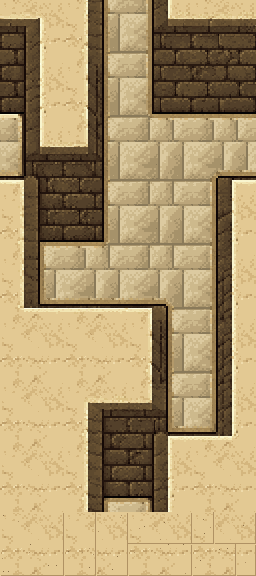
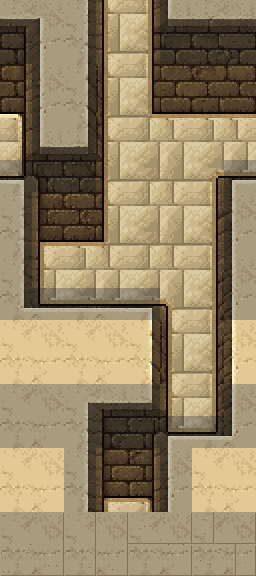
Temple: walls squared off where the cliff sets have no tile; the wall top redrawn
tools/walls.js lists corners whose best cliff tile gets one of their own four squares wrong (a wall stepping down one
row at a time, a wall one square thick north-south): the 'broken' wall features the user found in the labyrinth. A
test keeps every tiled place at none. tools/squarewalls.js squares them off (single squares or pairs flipped between
wall and floor, never cutting or making a way through). Applied to the labyrinth and the sewers; the wall top redrawn
by hand (a long walk, the guardhouse a room beside it) with its wall tops darkened. Adds the user's palace references.

Claude-Session: https://claude.ai/code/session_0141D3J1nxiiYur4nPnE9YEF

diff --git a/tools/squarewalls.js b/tools/squarewalls.js
@@ -1,0 +1,85 @@
+// Squares off wall shapes a place's cliff set has no tile for (a one-square diagonal step, a wall one square thick
+// north-south), by flipping single squares between plain wall (#) and plain floor, greedily, keeping only flips that
+// cut the count of corners no tile fits, never touching a legend square, and never joining or cutting off floor
+// (a flip must keep the floor squares round it connected through its 8 neighbours). Prints the new map rows.
+//   node tools/squarewalls.js <place>
+const path = require('path');
+const repo = path.resolve(__dirname, '..');
+process.chdir(repo + '/tests');
+require(repo + '/tests/load.js');
+const G = globalThis.BBB; G.UI = G.UI || {}; require(repo + '/src/ui/game/tilemap.js');
+const Tm = G.UI.Tilemap, id = process.argv[2], pl = G.Content.world.places[id];
+const gl = (pl.look && pl.look.ground) || '.';
+const rows = pl.map.map((r) => [...r]), H = rows.length, W = rows[0].length;
+const ts = Tm.tileset(pl.look.tileset);
+const walk = (ch) => ch !== '#' && ch !== ' ' && !(G.Explore.groundOf(ch) && (G.Explore.groundOf(ch).wall || G.Explore.groundOf(ch).walk === false));
+const sc = { w: W, h: H, misfits: true, cell: (x, y) => {
+  if (x < 0 || y < 0 || x >= W || y >= H) return { kind: 'rock', ch: ' ' };
+  const ch = rows[y][x];
+  if (ch === '#') return { kind: 'wall', ch };
+  if (ch === ' ') return { kind: 'rock', ch };
+  if (ch === '+') return { kind: 'door', ch, ground: G.Explore.groundOf(gl) };
+  const def = pl.legend && pl.legend[ch];
+  if (def) return { kind: def.kind, ch, def, ground: G.Explore.groundOf(def.on || gl) };
+  const gr = G.Explore.groundOf(ch);
+  if (gr && gr.wall) return { kind: 'wall', ch, ground: gr };
+  return { kind: gr && gr.walk === false ? 'water' : 'floor', ch, ground: gr || G.Explore.groundOf(gl) };
+} };
+const bad = () => (Tm.planTiles(sc, ts, 0, 0, W - 1, H - 1).misfit || []).filter((m) => m.full - m.score >= 40);
+// The floor round (x, y), within its 8 neighbours, is one piece (so filling or opening it adds or cuts no way through).
+const locallyOne = (x, y) => {
+  const ring = [[-1, -1], [0, -1], [1, -1], [1, 0], [1, 1], [0, 1], [-1, 1], [-1, 0]].map(([dx, dy]) => [x + dx, y + dy]);
+  const open = ring.filter(([a, b]) => rows[b] && rows[b][a] !== undefined && walk(rows[b][a]));
+  if (!open.length) return true;
+  const key = ([a, b]) => a + ',' + b, set = new Set(open.map(key)), seen = new Set([key(open[0])]), q = [open[0]];
+  while (q.length) { const [a, b] = q.pop(); for (const [dx, dy] of [[1, 0], [-1, 0], [0, 1], [0, -1]]) { const k = (a + dx) + ',' + (b + dy); if (set.has(k) && !seen.has(k)) { seen.add(k); q.push([a + dx, b + dy]); } } }
+  return seen.size === open.length;
+};
+// The walkable areas, counted (4-way): a flip must leave the count as it was, so it neither cuts a way nor makes one.
+const areas = () => {
+  const seen = new Set(); let n = 0;
+  for (let y = 0; y < H; y++) for (let x = 0; x < W; x++) {
+    if (!walk(rows[y][x]) || seen.has(x + ',' + y)) continue;
+    n++; seen.add(x + ',' + y); const q = [[x, y]];
+    while (q.length) { const [a, b] = q.pop(); for (const [dx, dy] of [[1, 0], [-1, 0], [0, 1], [0, -1]]) { const k = (a + dx) + ',' + (b + dy); if (rows[b + dy] && rows[b + dy][a + dx] !== undefined && walk(rows[b + dy][a + dx]) && !seen.has(k)) { seen.add(k); q.push([a + dx, b + dy]); } } }
+  }
+  return n;
+};
+const nAreas = areas();
+let cur = bad();
+const start = cur.length;
+for (let round = 0; round < 200 && cur.length; round++) {
+  let bestFlip = null, bestN = cur.length;
+  const cand = new Set();
+  for (const m of cur) for (const [dx, dy] of [[-1, -1], [0, -1], [-1, 0], [0, 0]]) cand.add((m.x + dx) + ',' + (m.y + dy));
+  // Single squares first; a pair (side by side or one above the other) only when no single flip helps: a wall that
+  // steps down one row at a time needs its steps two rows tall.
+  for (const pairs of [[[0, 0]], [[0, 0], [1, 0]], [[0, 0], [0, 1]]]) {
+    for (const k of cand) {
+      const [x, y] = k.split(',').map(Number);
+      const sq = pairs.map(([dx, dy]) => [x + dx, y + dy]);
+      if (sq.some(([a, b]) => a < 1 || b < 1 || a >= W - 1 || b >= H - 1)) continue;
+      const chs = sq.map(([a, b]) => rows[b][a]);
+      if (new Set(chs).size > 1) continue;
+      const ch = chs[0], to = ch === '#' ? gl : ch === gl ? '#' : null;
+      if (!to) continue;
+      const saved = chs.slice();
+      let ok = true;
+      for (const [a, b] of sq) {
+        if (!locallyOne(a, b)) { ok = false; break; }
+        rows[b][a] = to;
+      }
+      // New floor must join floor on a side, or it is an island (a wall square in the water).
+      if (ok && to !== '#') ok = sq.every(([a, b]) => [[1, 0], [-1, 0], [0, 1], [0, -1]].some(([dx, dy]) => walk(rows[b + dy][a + dx])));
+      const n = ok && areas() === nAreas ? bad().length : Infinity;
+      sq.forEach(([a, b], i) => { rows[b][a] = saved[i]; });
+      if (n < bestN) { bestN = n; bestFlip = sq.map(([a, b]) => [a, b, to]); }
+    }
+    if (bestFlip) break;
+  }
+  if (!bestFlip) break;
+  for (const [a, b, to] of bestFlip) rows[b][a] = to;
+  cur = bad();
+}
+console.error(`${id}: ${start} -> ${cur.length} corners no tile fits`);
+console.log(rows.map((r) => `    - "${r.join('')}"`).join('\n'));

diff --git a/tools/walls.js b/tools/walls.js
@@ -1,0 +1,25 @@
+// Lists the wall corners in tiled places where the best tile of their cliff set gets one of the corner's own four
+// squares wrong: the shapes that draw broken (a wall stepping down one row at a time, a wall one square thick
+// north-south). A tile that only misses an outer square of the 4x4 is fine and not listed. tools/squarewalls.js fixes
+// most of them. node tools/walls.js [place...]
+const path = require('path');
+const repo = path.resolve(__dirname, '..');
+process.chdir(repo + '/tests');
+require(repo + '/tests/load.js');
+const G = globalThis.BBB; G.UI = G.UI || {}; require(repo + '/src/ui/game/tilemap.js');
+const Tm = G.UI.Tilemap, places = G.Content.world.places;
+const ids = process.argv.slice(2).length ? process.argv.slice(2) : Object.keys(places).filter((id) => places[id].look && places[id].look.tileset);
+let total = 0;
+for (const id of ids) {
+  const pl = places[id];
+  const w = G.World.create(G.World.presetParty(), { log: false });
+  G.Explore.enter(w, id, Object.keys(pl.legend || {}).find((k) => ['stairs', 'drop', 'note'].includes(pl.legend[k].kind)) || '<');
+  const g = G.Explore.here(w);
+  const sc = { w: g.w, h: g.h, cell: (x, y) => G.Explore.peek(w, x, y), misfits: true };
+  const p = Tm.planTiles(sc, Tm.tileset(pl.look.tileset), 0, 0, g.w - 1, g.h - 1);
+  const bad = (p.misfit || []).filter((m) => m.full - m.score >= 40);
+  total += bad.length;
+  console.log(`${id}: ${bad.length} corner(s) drawn broken`);
+  for (const m of bad) console.log(`  corner ${m.x},${m.y} (${m.t}) ${m.g.match(/..../g).join(' ')} -> tile ${m.at} score ${m.score}/${m.full}`);
+}
+process.exitCode = total ? 1 : 0;

diff --git a/src/ui/game/tilemap.js b/src/ui/game/tilemap.js
@@ -377,7 +377,7 @@
   function planTiles(sc, ts, x0, y0, x1, y1) {
     const at = {};
     const T_ = (x, y) => { const k = x + ',' + y; return at[k] || (at[k] = terrainOf(sc, ts, x, y)); };
-    const out = { base: [], corner: [], decor: [], over: [] };
+    const out = { base: [], corner: [], decor: [], over: [], misfit: sc.misfits ? [] : null };
     for (let y = y0; y <= y1; y++) for (let x = x0; x <= x1; x++) {
       let t = tdef(ts, T_(x, y).t);
       // A wang terrain's square is covered by its corners; under them lies what it is drawn over.
@@ -459,6 +459,11 @@
         else if (sc === bs && hash(x, y, 13 + ties++) % ties === 0) best = tl;
       }
       if (best) out.corner.push({ x, y, t: w.name, at: best.at });
+      // A corner no tile fits exactly (some square the tile cares about differs): tools/walls.js lists these.
+      if (best && out.misfit) {
+        const full = best.p.reduce((a, want, k) => a + (want < 0 ? 0 : k === 5 || k === 6 || k === 9 || k === 10 ? 10 : 1), 0);
+        if (bs < full) out.misfit.push({ x, y, t: w.name, at: best.at, g: g.join(''), score: bs, full });
+      }
     }
   }
 

diff --git a/tests/walls.test.js b/tests/walls.test.js
@@ -1,0 +1,13 @@
+// Every tiled place's walls can be drawn: no corner whose best cliff tile gets one of its own four squares wrong
+// (tools/walls.js lists them, tools/squarewalls.js squares most of them off).
+const test = require('node:test');
+const assert = require('node:assert/strict');
+const { execFileSync } = require('child_process');
+const path = require('path');
+
+test('walls: every corner in every tiled place has a tile that fits it', () => {
+  let out = '';
+  try { out = execFileSync('node', [path.join(__dirname, '../tools/walls.js')], { encoding: 'utf8' }); } catch (e) { out = e.stdout; }
+  const broken = out.split('\n').filter((l) => /: [1-9]\d* corner/.test(l));
+  assert.deepEqual(broken, [], out);
+});

diff --git a/assets/wip/temple-court/v2/walltop-dark.py b/assets/wip/temple-court/v2/walltop-dark.py
@@ -1,0 +1,30 @@
+# The wall-top place's walls: its tops darkened, so the parapets and the guardhouse's walls don't read as more of the
+# walk's paving (the user found the place hard to move in). From walltop-wall-light.png (the hand-jointed sheet, see
+# README) to art/worldtiles/temple/walltop-wall.png. Quarter tiles are classed by walltop-cliff.metadata.json's
+# pattern_4x4 as the sewer's build does; row 8 (the plain tops) is all top.
+#   python3 assets/wip/temple-court/v2/walltop-dark.py "$PWD"
+import json, sys
+from PIL import Image
+
+root = sys.argv[1]
+here = root + '/assets/wip/temple-court/v2/'
+TOP = (0.78, 0.7)  # brightness, saturation kept
+
+im = Image.open(here + 'walltop-wall-light.png').convert('RGBA')
+px = im.load()
+def dark(x0, y0, w, h):
+    for y in range(y0, y0 + h):
+        for x in range(x0, x0 + w):
+            r, g, b, a = px[x, y]
+            m = (r + g + b) / 3
+            r, g, b = (m + (c - m) * TOP[1] for c in (r, g, b))
+            px[x, y] = (round(r * TOP[0]), round(g * TOP[0]), round(b * TOP[0]), a)
+for t in json.load(open(here + 'walltop-cliff.metadata.json'))['tileset_data']['tiles']:
+    bb, p = t['bounding_box'], t['pattern_4x4']
+    nw, ne, sw, se = p['row_1'][1], p['row_1'][2], p['row_2'][1], p['row_2'][2]
+    top = [nw == 1, ne == 1, sw in (1, 2), se in (1, 2)]
+    for q in range(4):
+        if top[q]:
+            dark(bb['x'] + (q % 2) * 32, bb['y'] + (q // 2) * 32, 32, 32)
+dark(0, 512, im.width, 64)
+im.save(root + '/art/worldtiles/temple/walltop-wall.png')

diff --git a/HANDOFF.md b/HANDOFF.md
@@ -137,6 +137,13 @@ idle, walk, attack, hurt, death. PixelLab gives 8 directions; the map mirrors 2,
 - [x] The ritual chamber (`temple_ritual`, `assets/wip/temple-ritual/README.md`), after the user's reference: rose stone
   walls with niches, teal marble, a square shallow pool with the dais and the orb in it, four small pyramids, the stair
   up to the palace (a prop until the palace exists). The sewer drain is now a one-way drop into the pool.
+- [x] Broken wall shapes (the user: "The labyrinth has some odd wall features that look broken"): the cliff sets have no
+  tile for a wall stepping down one row at a time or a wall one square thick north-south. `tools/walls.js` lists such
+  corners in every tiled place (a test keeps it at none); `tools/squarewalls.js` squares them off by flipping single
+  squares or pairs between wall and floor, keeping every way through as it was. The labyrinth (45), sewers (29) and
+  wall top (16, redrawn by hand: the guardhouse is now a room beside a long walk, its door in a north-south wall) are
+  clean; the courts and the ritual chamber had none. The wall top's wall tops are darkened (`walltop-dark.py`) so they
+  don't read as more paving.
 - [ ] Ritual chamber, still open: the avatar of fear is a stand-in (a spectre, which beats a level-1 party every time);
   the orb is smaller than the reference's (about two squares); the niche frames came out tan.
 - [ ] Then the palace (plan §5): ground floor, upper floor, the stair rooms down to the ritual chamber.

diff --git a/assets/wip/temple-court/v2/README.md b/assets/wip/temple-court/v2/README.md
@@ -23,7 +23,8 @@ All PixelLab pro, 64 px, high top-down, lineless unless noted.
   lines despite lineless, and its face is darker than the court's.
 - The wall tops in art/ (row 8 of court-wall.png and walltop-wall.png) are the sheet's plain top [0, 6] with joints drawn
   by hand (a bevel lit from the upper left on each tile's edges, a joint across the middle in three of the four), so
-  every top square reads as one or two large blocks.
+  every top square reads as one or two large blocks. walltop-wall-light.png keeps that sheet; walltop-dark.py darkens its
+  tops into art/ for the wall-top place, where light tops read as more of the walk.
 - Decor pieces (create_map_object, basic shading, low detail): d-tuft "a small tuft of taller olive green grass
   blades"; d-fern "a small tuft of curled young jungle fern fronds"; d-bricks "three small broken weathered tan
   sandstone bricks half sunk in the ground"; d-pebbles; d-flowers "a few tiny pale yellow and white jungle flowers";
